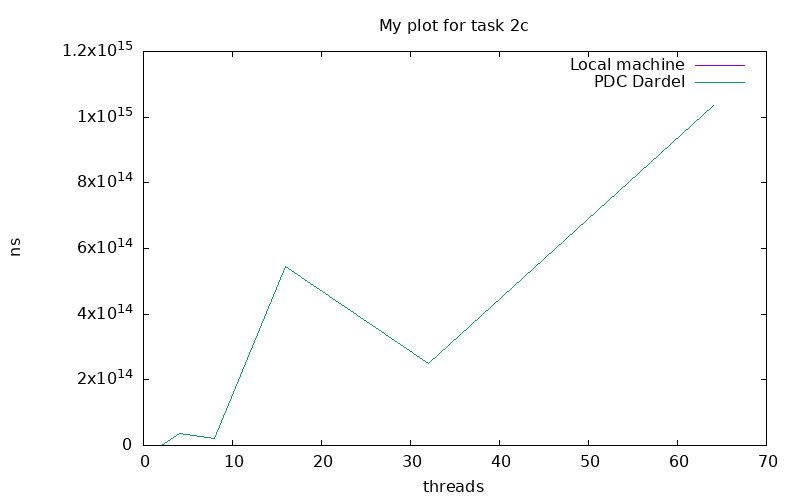
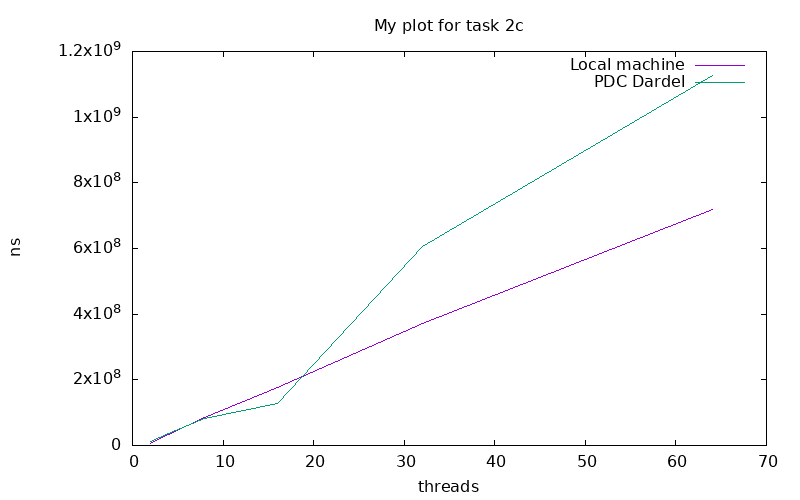
fix data collection for task 2c

diff --git a/src/task2/MainC.java b/src/task2/MainC.java
@@ -11,7 +11,7 @@ public class MainC {
 
     public static class MyIncrementer implements Runnable {
 
-        public synchronized void run() {
+        public void run() {
             for (int i = 0; i < 1000000; i++) {
                 counter++;
             }

diff --git a/src/task2/MainB.java b/src/task2/MainB.java
@@ -6,7 +6,7 @@ public class MainB {
 
     public static class MyIncrementer implements Runnable {
 
-        public synchronized void run() {
+        public void run() {
             for (int i = 0; i < 1000000; i++) {
                 counter++;
             }
